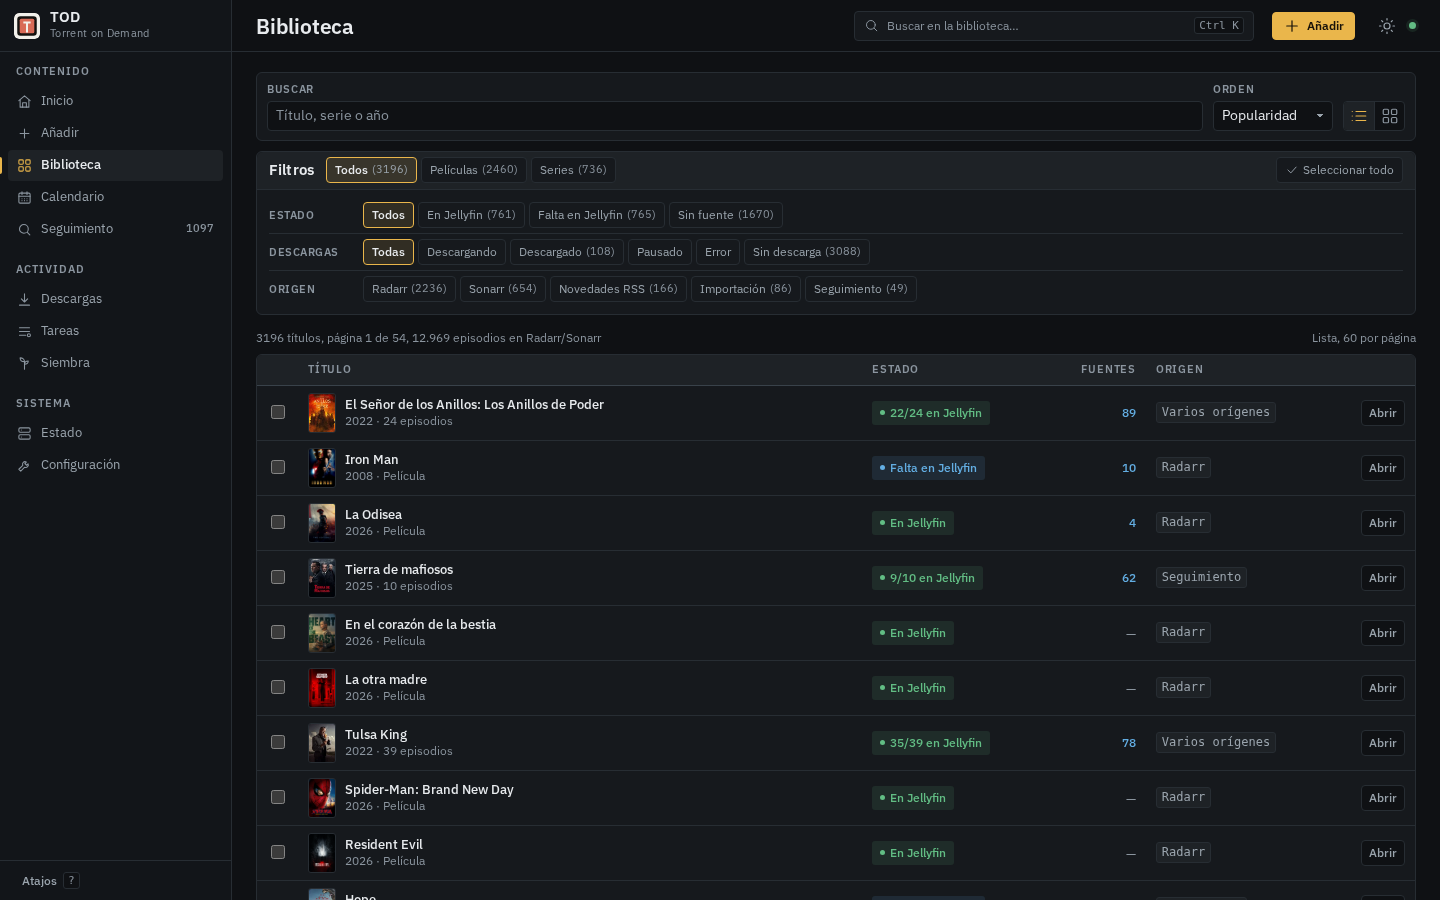
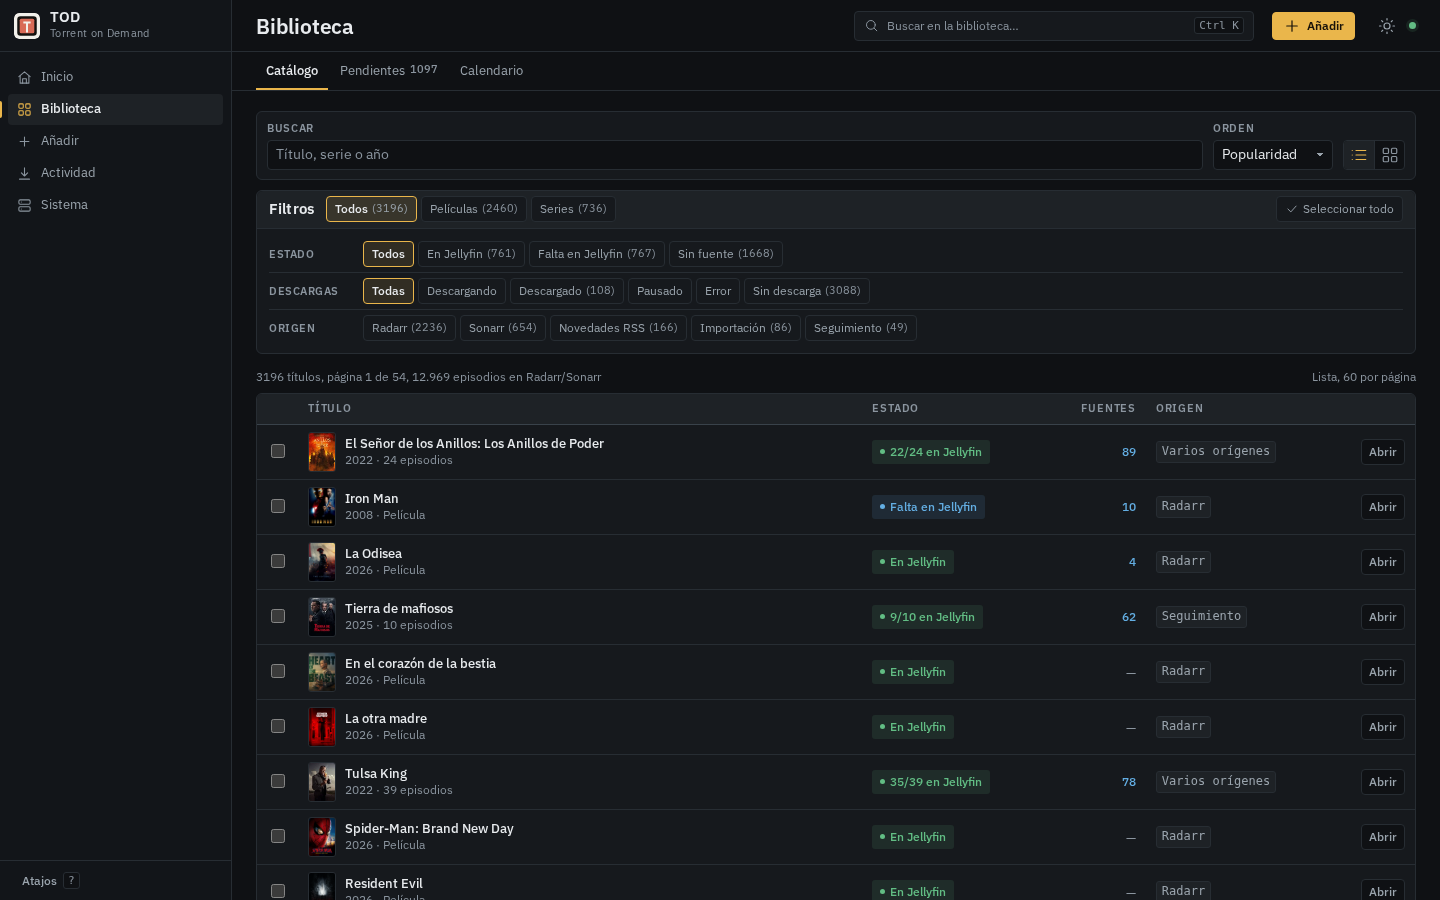
Reorganiza la navegación en cinco secciones
- Inicio, Biblioteca, Añadir, Actividad y Sistema.
- Biblioteca incluye Catálogo, Pendientes y Calendario.
- Actividad incluye Descargas, Tareas y Siembra.
- Sistema incluye Estado y Configuración.
- Las rutas existentes se conservan; solo cambia la navegación.
- Captura del README actualizada.

diff --git a/catalogo/web_static/js/ui.js b/catalogo/web_static/js/ui.js
@@ -1,4 +1,5 @@
 import { esc } from './format.js';
+import { state } from './store.js';
 
 export const $ = (selector, root = document) => root.querySelector(selector);
 export const $$ = (selector, root = document) => Array.from(root.querySelectorAll(selector));
@@ -224,16 +225,90 @@ export function showResult(title, data, isError = false) {
 
 /* ---------------------------------------------------------------- navegación */
 
+const PRIMARY_ROUTE = {
+  dashboard: 'dashboard',
+  add: 'add',
+  intake: 'add',
+  catalog: 'catalog',
+  title: 'catalog',
+  series: 'catalog',
+  collection: 'catalog',
+  monitor: 'catalog',
+  calendar: 'catalog',
+  downloads: 'downloads',
+  jobs: 'downloads',
+  history: 'downloads',
+  seeds: 'downloads',
+  system: 'system',
+  settings: 'system',
+  technical: 'system',
+};
+
+const SECTION_FOR_VIEW = {
+  catalog: 'catalog',
+  title: 'catalog',
+  series: 'catalog',
+  collection: 'catalog',
+  monitor: 'catalog',
+  calendar: 'catalog',
+  downloads: 'activity',
+  jobs: 'activity',
+  history: 'activity',
+  seeds: 'activity',
+  system: 'system',
+  settings: 'system',
+  technical: 'system',
+};
+
+const SECTION_TABS = {
+  catalog: [
+    { label: 'Catálogo', href: '#/catalog', views: ['catalog', 'title', 'series', 'collection'] },
+    { label: 'Pendientes', href: '#/monitor', views: ['monitor'], count: 'pending' },
+    { label: 'Calendario', href: '#/calendar', views: ['calendar'] },
+  ],
+  activity: [
+    { label: 'Descargas', href: '#/downloads', views: ['downloads'] },
+    { label: 'Tareas', href: '#/jobs', views: ['jobs', 'history'], count: 'jobs' },
+    { label: 'Siembra', href: '#/seeds', views: ['seeds'] },
+  ],
+  system: [
+    { label: 'Estado', href: '#/system', views: ['system', 'technical'] },
+    { label: 'Configuración', href: '#/settings', views: ['settings'] },
+  ],
+};
+
+export function setSectionCount(kind, value) {
+  const node = document.querySelector(`[data-tab-count="${kind}"]`);
+  if (!node) return;
+  node.textContent = value ? String(value) : '';
+}
+
+export function renderSectionTabs(view) {
+  const box = document.getElementById('sectionTabs');
+  if (!box) return;
+  const section = SECTION_FOR_VIEW[view];
+  const tabs = SECTION_TABS[section];
+  if (!tabs) {
+    box.innerHTML = '';
+    box.classList.add('hidden');
+    return;
+  }
+  box.classList.remove('hidden');
+  box.dataset.section = section;
+  box.innerHTML = tabs.map((tab) => {
+    const active = tab.views.includes(view);
+    return `<a href="${tab.href}" class="${active ? 'active' : ''}" ${active ? 'aria-current="page"' : ''}>
+      ${esc(tab.label)}${tab.count ? `<em class="nav-count" data-tab-count="${tab.count}"></em>` : ''}
+    </a>`;
+  }).join('');
+  setSectionCount('pending', state.activity?.monitored || 0);
+  setSectionCount('jobs', (state.activity?.active || []).length);
+}
+
 export function setActiveNav(route) {
+  const primary = PRIMARY_ROUTE[route] || 'dashboard';
   $$('#nav a, #mobileNav a').forEach((link) => {
-    const name = link.dataset.route;
-    const active = name === route
-      || (route === 'title' && name === 'catalog')
-      || (route === 'collection' && name === 'catalog')
-      || (route === 'series' && name === 'catalog')
-      || (route === 'intake' && name === 'add')
-      || (route === 'history' && name === 'jobs')
-      || (route === 'technical' && name === 'system');
+    const active = link.dataset.route === primary;
     link.classList.toggle('active', active);
     if (active) link.setAttribute('aria-current', 'page');
     else link.removeAttribute('aria-current');

diff --git a/catalogo/web_static/index.html b/catalogo/web_static/index.html
@@ -59,19 +59,11 @@
       </a>
 
       <nav class="nav" id="nav">
-        <span class="nav-label">Contenido</span>
         <a href="#/dashboard" data-route="dashboard"><svg class="icon"><use href="#i-home"/></svg><span>Inicio</span></a>
-        <a href="#/add" data-route="add"><svg class="icon"><use href="#i-plus"/></svg><span>Añadir</span></a>
         <a href="#/catalog" data-route="catalog"><svg class="icon"><use href="#i-grid"/></svg><span>Biblioteca</span></a>
-        <a href="#/calendar" data-route="calendar"><svg class="icon"><use href="#i-calendar"/></svg><span>Calendario</span></a>
-        <a href="#/monitor" data-route="monitor"><svg class="icon"><use href="#i-search"/></svg><span>Seguimiento</span><em class="nav-count" id="navMonitor"></em></a>
-        <span class="nav-label">Actividad</span>
-        <a href="#/downloads" data-route="downloads"><svg class="icon"><use href="#i-download"/></svg><span>Descargas</span><em class="nav-count" id="navDownloads"></em></a>
-        <a href="#/jobs" data-route="jobs"><svg class="icon"><use href="#i-jobs"/></svg><span>Tareas</span><em class="nav-count" id="navJobs"></em></a>
-        <a href="#/seeds" data-route="seeds"><svg class="icon"><use href="#i-seed"/></svg><span>Siembra</span></a>
-        <span class="nav-label">Sistema</span>
-        <a href="#/system" data-route="system"><svg class="icon"><use href="#i-server"/></svg><span>Estado</span><em class="nav-count attention hidden" id="navAttention" aria-live="polite"></em></a>
-        <a href="#/settings" data-route="settings"><svg class="icon"><use href="#i-wrench"/></svg><span>Configuración</span></a>
+        <a href="#/add" data-route="add"><svg class="icon"><use href="#i-plus"/></svg><span>Añadir</span></a>
+        <a href="#/downloads" data-route="downloads"><svg class="icon"><use href="#i-download"/></svg><span>Actividad</span><em class="nav-count" id="navJobs"></em></a>
+        <a href="#/system" data-route="system"><svg class="icon"><use href="#i-server"/></svg><span>Sistema</span><em class="nav-count attention hidden" id="navAttention" aria-live="polite"></em></a>
       </nav>
 
       <div class="sidebar-foot">
@@ -103,6 +95,7 @@
           <span class="conn" id="liveDot" title="servidor" aria-label="estado del servidor"></span>
         </div>
       </header>
+      <div class="section-tabs hidden" id="sectionTabs" role="navigation" aria-label="Sección"></div>
       <div class="activity-bar hidden" id="activityBar"></div>
       <section id="view" class="view"></section>
     </main>
@@ -111,7 +104,7 @@
       <a href="#/dashboard" data-route="dashboard"><svg class="icon"><use href="#i-home"/></svg><span>Inicio</span></a>
       <a href="#/catalog" data-route="catalog"><svg class="icon"><use href="#i-grid"/></svg><span>Biblioteca</span></a>
       <a href="#/add" data-route="add"><svg class="icon"><use href="#i-plus"/></svg><span>Añadir</span></a>
-      <a href="#/downloads" data-route="downloads"><svg class="icon"><use href="#i-download"/></svg><span>Descargas</span></a>
+      <a href="#/downloads" data-route="downloads"><svg class="icon"><use href="#i-download"/></svg><span>Actividad</span></a>
       <button data-action="menu"><svg class="icon"><use href="#i-menu"/></svg><span>Más</span></button>
     </nav>
   </div>

diff --git a/catalogo/web_static/js/app.js b/catalogo/web_static/js/app.js
@@ -7,7 +7,7 @@ import { addSearchResult, submitAdd, uploadTorrent } from './views/add.js';
 import { state, toggleSelection } from './store.js';
 import {
   $, $$, closeModal, confirmModal, icon, openModal, poster, restoreFocus, setLive,
-  showResult, status, toast,
+  setSectionCount, showResult, status, toast,
 } from './ui.js';
 
 function syncThemeButton() {
@@ -120,8 +120,7 @@ function setActivity(data) {
   const text = $('#activityText');
   const bar = $('#activityBar');
   const navJobs = $('#navJobs');
-  const navMonitor = $('#navMonitor');
-  if (navMonitor) navMonitor.textContent = data?.monitored ? String(data.monitored) : '';
+  setSectionCount('pending', data?.monitored || 0);
 
   if (running) {
     const label = `${jobState(running.state).label}, ${jobLabel(running.kind)}`;
@@ -131,6 +130,7 @@ function setActivity(data) {
       pill.href = '#/jobs';
     }
     if (navJobs) navJobs.textContent = String(active.length);
+    setSectionCount('jobs', active.length);
     if (bar) {
       bar.innerHTML = `<span class="spinner" aria-hidden="true"></span>
         <strong>${esc(jobLabel(running.kind))}</strong>
@@ -144,6 +144,7 @@ function setActivity(data) {
     if (pill) pill.classList.add('hidden');
     if (bar) bar.classList.add('hidden');
     if (navJobs) navJobs.textContent = '';
+    setSectionCount('jobs', 0);
   }
 
   const previous = state.activeIds || [];
@@ -246,10 +247,10 @@ async function runAttentionCheck() {
 let paletteTimer = null;
 
 const DESTINATIONS = [
-  { label: 'Inicio', href: '#/dashboard', hint: 'Contenido' },
-  { label: 'Biblioteca', href: '#/catalog', hint: 'Contenido' },
-  { label: 'Calendario', href: '#/calendar', hint: 'Contenido' },
-  { label: 'Seguimiento', href: '#/monitor', hint: 'Contenido' },
+  { label: 'Inicio', href: '#/dashboard', hint: 'Inicio' },
+  { label: 'Biblioteca', href: '#/catalog', hint: 'Biblioteca' },
+  { label: 'Calendario', href: '#/calendar', hint: 'Biblioteca' },
+  { label: 'Pendientes', href: '#/monitor', hint: 'Biblioteca' },
   { label: 'Descargas', href: '#/downloads', hint: 'Actividad' },
   { label: 'Tareas', href: '#/jobs', hint: 'Actividad' },
   { label: 'Historial', href: '#/history', hint: 'Actividad' },

diff --git a/catalogo/web_static/styles.css b/catalogo/web_static/styles.css
@@ -155,11 +155,6 @@ h1, h2, h3, p { margin-top: 0; }
 .brand-text small { display: block; color: var(--faint); font-size: 11px; letter-spacing: .03em; }
 
 .nav { display: flex; flex-direction: column; gap: 1px; overflow-y: auto; padding: 10px 8px 16px; }
-.nav-label {
-  color: var(--faint); font-size: 11px; font-weight: 600; padding: 16px 8px 5px;
-  letter-spacing: .09em; text-transform: uppercase;
-}
-.nav-label:first-child { padding-top: 2px; }
 .nav a {
   display: flex; align-items: center; gap: 9px;
   color: var(--graphite); padding: 0 9px; height: 31px; text-decoration: none;
@@ -222,6 +217,24 @@ kbd {
 .conn { width: 7px; height: 7px; border-radius: 50%; background: var(--faint); }
 .conn.online { background: var(--green); box-shadow: 0 0 0 3px var(--green-soft); }
 .conn.offline { background: var(--red); box-shadow: 0 0 0 3px var(--red-soft); }
+.section-tabs {
+  display: flex; align-items: center; gap: 2px;
+  padding: 0 24px; min-height: 38px;
+  border-bottom: 1px solid var(--rule);
+  background: var(--paper);
+  overflow-x: auto; scrollbar-width: none;
+}
+.section-tabs::-webkit-scrollbar { display: none; }
+.section-tabs a {
+  display: inline-flex; align-items: center; gap: 5px;
+  padding: 9px 10px; color: var(--graphite); font-size: 12.5px;
+  border-bottom: 2px solid transparent; white-space: nowrap;
+  text-decoration: none;
+}
+.section-tabs a:hover { color: var(--ink); text-decoration: none; }
+.section-tabs a.active { color: var(--ink); font-weight: 500; border-bottom-color: var(--accent); }
+.section-tabs .nav-count { font-size: 11px; }
+
 .activity-bar {
   display: flex; align-items: center; gap: 12px; min-height: 34px;
   padding: 5px 24px; border-bottom: 1px solid var(--rule);
@@ -865,6 +878,8 @@ pre.result { background: var(--paper-soft); border: 1px solid var(--rule); paddi
   .settings-nav::-webkit-scrollbar { display: none; }
   .filter-details { display: none; }
   .filter-details.open { display: block; }
+  .section-tabs { padding: 0 12px; min-height: 36px; }
+  .section-tabs a { font-size: 12px; padding: 8px; }
   .topbar { padding: 9px 14px; gap: 10px; }
   .top-add { display: none; }
   .page-head h1 { font-size: 22px; }

diff --git a/catalogo/web_static/js/router.js b/catalogo/web_static/js/router.js
@@ -1,5 +1,5 @@
 import { beginRequest, state, clearSelection } from './store.js';
-import { $, setActiveNav, setHeader, focusTitle, focusKey, restoreFocus, pageError } from './ui.js';
+import { $, setActiveNav, setHeader, renderSectionTabs, focusTitle, focusKey, restoreFocus, pageError } from './ui.js';
 import { renderDashboard } from './views/dashboard.js';
 import { renderCalendar } from './views/calendar.js';
 import { renderHistory } from './views/history.js';
@@ -20,7 +20,7 @@ const ROUTES = {
   dashboard: { title: 'Inicio', render: renderDashboard },
   calendar: { title: 'Calendario', render: renderCalendar },
   catalog: { title: 'Biblioteca', render: renderCatalog },
-  monitor: { title: 'Seguimiento', render: renderMonitor },
+  monitor: { title: 'Pendientes', render: renderMonitor },
   collection: { title: 'Saga', render: renderCollection },
   series: { title: 'Serie', render: renderSeries },
   title: { title: 'Ficha', render: renderTitle },
@@ -111,6 +111,7 @@ export async function route({ preserveScroll = false } = {}) {
   state.query = parsed.query;
   setActiveNav(parsed.view);
   setHeader(definition.title);
+  renderSectionTabs(parsed.view);
   $('#view').innerHTML = `<div class="view-loading" aria-busy="true" aria-label="Cargando">
     <div class="skeleton" style="height:34px;width:100%"></div>
     <div class="skeleton" style="height:28px;width:44%;margin-top:4px"></div>

diff --git a/catalogo/web_static/js/views/monitor.js b/catalogo/web_static/js/views/monitor.js
@@ -46,11 +46,11 @@ export async function renderMonitor({ query, signal }) {
   const items = data.items || [];
   const summary = data.summary || {};
   state.monitorSummary = summary;
-  setHeader('Seguimiento');
+  setHeader('Pendientes');
 
   const chips = [
     ['', 'Todos', summary.total || 0],
-    ['missing', 'Pendientes', summary.missing || 0],
+    ['missing', 'En cola', summary.missing || 0],
     ['pending', 'Sin estrenar', summary.pending || 0],
     ['downloading', 'Descargando', summary.downloading || 0],
   ];
@@ -85,7 +85,7 @@ export async function renderMonitor({ query, signal }) {
   }).join('');
 
   $('#view').innerHTML = `
-    <div class="breadcrumb"><a href="#/catalog">Biblioteca</a>${icon('chevron')}<span>Seguimiento</span></div>
+    <div class="breadcrumb"><a href="#/catalog">Biblioteca</a>${icon('chevron')}<span>Pendientes</span></div>
 
     <div class="toolbar">
       <label class="field grow">

diff --git a/catalogo/web_static/js/views/settings.js b/catalogo/web_static/js/views/settings.js
@@ -402,7 +402,7 @@ export async function renderSettings({ signal, query } = {}) {
           Latinoamérica. En el resto de títulos prefiere castellano de España,
           luego V.O./VOSE, y nunca un doblaje latino. «Solo castellano» solo
           acepta castellano de España. Esto no pausa indexers: para eso usa
-          Seguimiento → Indexers.
+          Configuración → Indexers.
         </p>
       </div>
     </div>
@@ -449,7 +449,7 @@ export async function renderSettings({ signal, query } = {}) {
         </div>
         <p class="muted tiny" style="margin:8px 0 0">
           «Descargar» solo permite o bloquea descargas nuevas de TOD en ese tracker.
-          No pausa el indexer: para dejar de buscar, usa Seguimiento → Indexers.
+          No pausa el indexer: para dejar de buscar, usa Configuración → Indexers.
         </p>
       </div>
     </div>

diff --git a/tests/test_web_settings.py b/tests/test_web_settings.py
@@ -317,9 +317,12 @@ def test_settings_frontend_assets():
     index = (root / "index.html").read_text(encoding="utf-8")
     view = (root / "js/views/settings.js").read_text(encoding="utf-8")
     app = (root / "js/app.js").read_text(encoding="utf-8")
+    ui = (root / "js/ui.js").read_text(encoding="utf-8")
     assert "renderSettings" in router
     assert "settings: {" in router
-    assert 'data-route="settings"' in index
+    assert 'data-route="system"' in index
+    assert "Configuración" in ui
+    assert "Pendientes" in ui
     assert 'data-action="settings-save"' in view
     assert "settings-test" in view
     assert "schedulerRun" not in app
